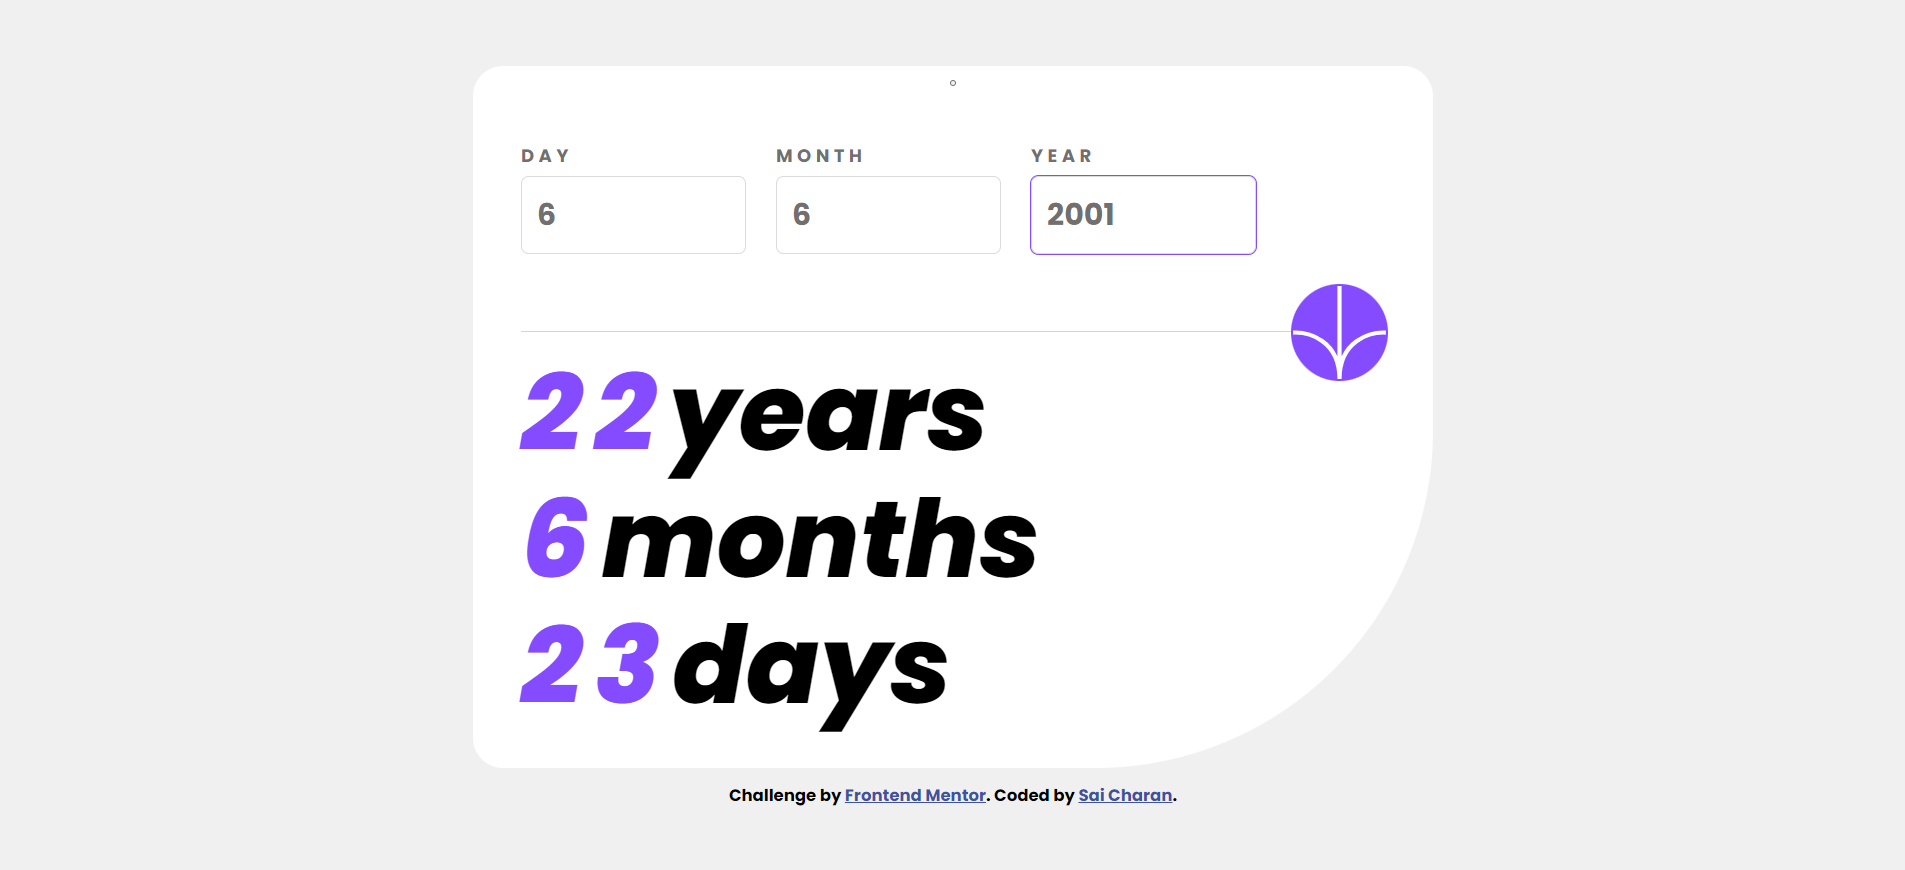
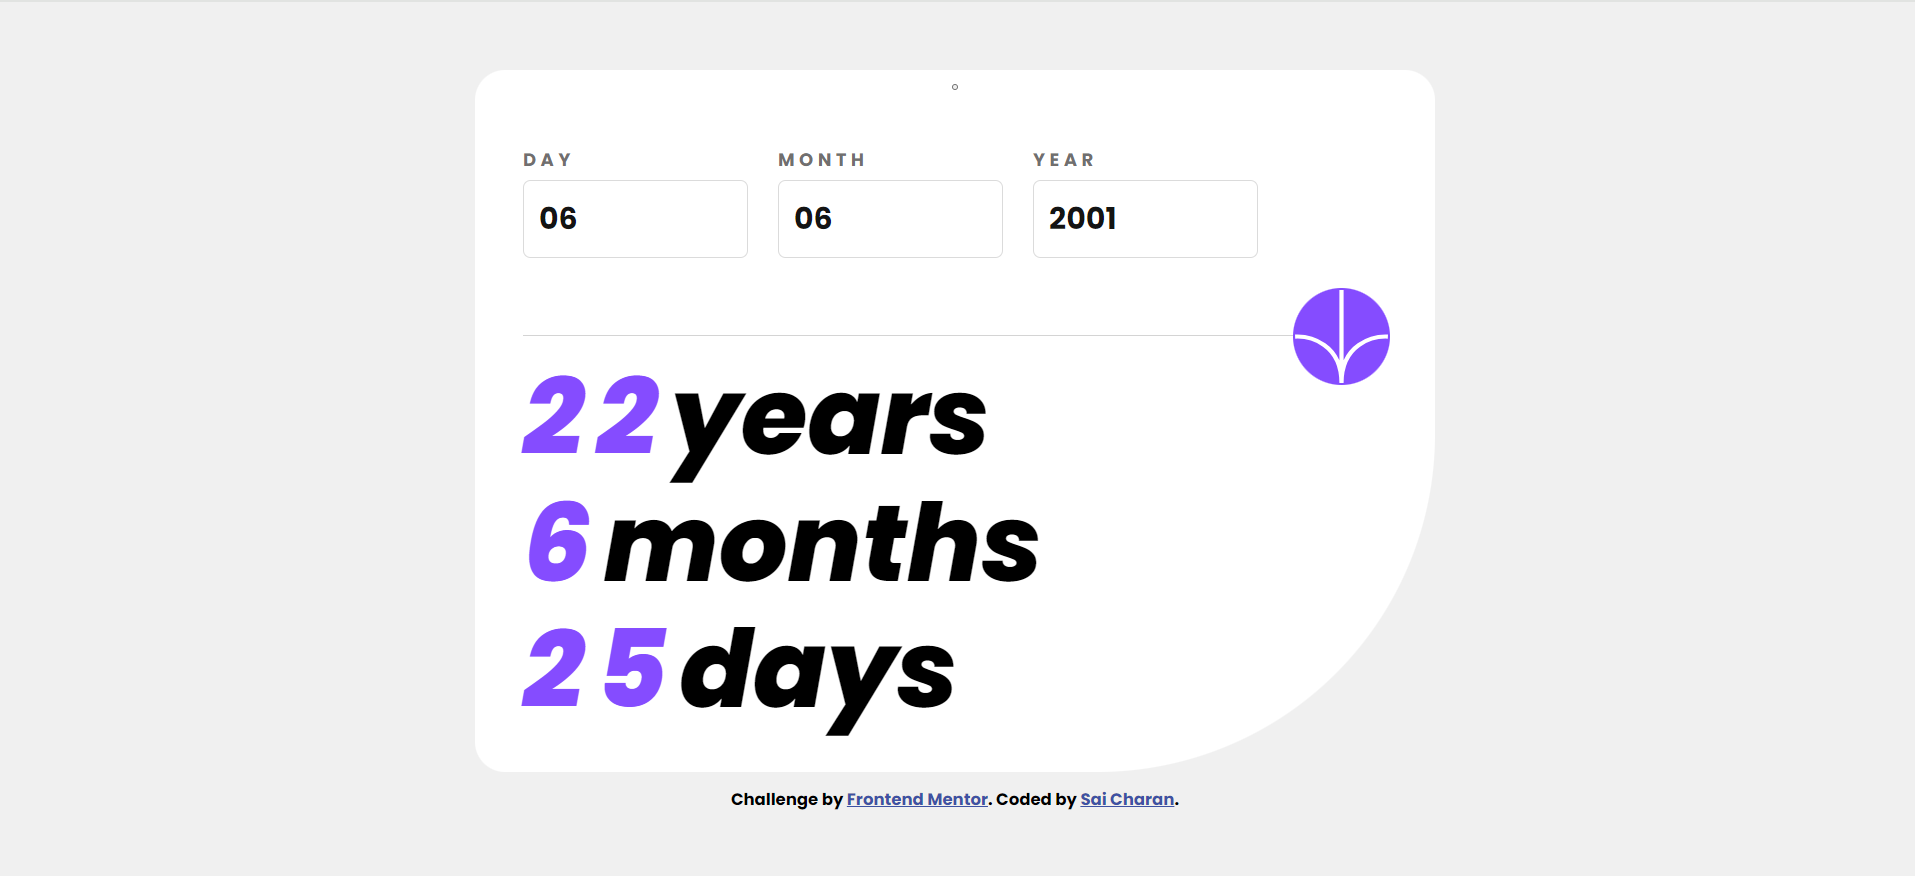
'changesDone'

diff --git a/age-calculator-app-main/index.html b/age-calculator-app-main/index.html
@@ -3,7 +3,6 @@
   <head>
     <meta charset="UTF-8" />
     <meta name="viewport" content="width=device-width, initial-scale=1.0" />
-    <!-- displays site properly based on user's device -->
 
     <link
       rel="icon"
@@ -13,8 +12,6 @@
     />
 
     <title>Frontend Mentor | Age calculator app</title>
-
-    <!-- Feel free to remove these styles or customise in your own stylesheet 👍 -->
     <link rel="stylesheet" href="style.css" />
   </head>
   <body>
@@ -43,11 +40,11 @@
         </div>
         <div class="box">
           <h2 class="months boxValue">-</h2>
-          <h2 class=" boxText">months</h2>
+          <h2 class="boxText">months</h2>
         </div>
         <div class="box">
           <h2 class="days boxValue">-</h2>
-          <h2 class=" boxText">days</h2>
+          <h2 class="boxText">days</h2>
         </div>
       </section>
     </section>

diff --git a/age-calculator-app-main/style.css b/age-calculator-app-main/style.css
@@ -68,7 +68,7 @@ input {
   border-radius: 5px;
   padding: 10px;
   border: 1px solid hsl(0, 0%, 86%);
-  color: hsl(0, 1%, 44%);
+  color: hsl(0, 0%, 8%);
   font-size: 20px;
   text-transform: uppercase;
 }

diff --git a/age-calculator-app-main/README.md b/age-calculator-app-main/README.md
@@ -1,102 +1,132 @@
-# Frontend Mentor - Age calculator app
+# Frontend Mentor - Age calculator app solution
 
-![Design preview for the Age calculator app coding challenge](./design/desktop-preview.jpg)
+This is a solution to the [Age calculator app challenge on Frontend Mentor](https://www.frontendmentor.io/challenges/age-calculator-app-dF9DFFpj-Q). Frontend Mentor challenges help you improve your coding skills by building realistic projects. 
 
-## Welcome! 👋
+## Table of contents
 
-Thanks for checking out this front-end coding challenge.
+- [Overview](#overview)
+  - [The challenge](#the-challenge)
+  - [Screenshot](#screenshot)
+  - [Links](#links)
+- [My process](#my-process)
+  - [Built with](#built-with)
+  - [What I learned](#what-i-learned)
+  - [Continued development](#continued-development)
+  - [Useful resources](#useful-resources)
+- [Author](#author)
+- [Acknowledgments](#acknowledgments)
 
-[Frontend Mentor](https://www.frontendmentor.io) challenges help you improve your coding skills by building realistic projects.
+**Note: Delete this note and update the table of contents based on what sections you keep.**
 
-**To do this challenge, you need a decent understanding of HTML, CSS and JavaScript.**
+## Overview
 
-## The challenge
+### The challenge
 
-Your challenge is to build out this age calculator app and get it looking as close to the design as possible.
-
-You can use any tools you like to help you complete the challenge. So if you've got something you'd like to practice, feel free to give it a go.
-
-Your users should be able to: 
+Users should be able to:
 
 - View an age in years, months, and days after submitting a valid date through the form
 - Receive validation errors if:
   - Any field is empty when the form is submitted
   - The day number is not between 1-31
   - The month number is not between 1-12
-  - The date is in the future
+  - The year is in the future
   - The date is invalid e.g. 31/04/1991 (there are 30 days in April)
 - View the optimal layout for the interface depending on their device's screen size
 - See hover and focus states for all interactive elements on the page
 - **Bonus**: See the age numbers animate to their final number when the form is submitted
 
-Want some support on the challenge? [Join our Slack community](https://www.frontendmentor.io/slack) and ask questions in the **#help** channel.
+### Screenshot
 
-## Where to find everything
+![Output image](image.png)
 
-Your task is to build out the project to the designs inside the `/design` folder. You will find both a mobile and a desktop version of the design. 
+### Links
 
-The designs are in JPG static format. Using JPGs will mean that you'll need to use your best judgment for styles such as `font-size`, `padding` and `margin`. 
+- Solution URL: [Git hub](https://github.com/saicharan293/FrontendMentorIO/tree/main/profile-card-component-main)
+- Live Site URL: [Netlify](https://your-live-site-url.com)
 
-If you would like the design files (we provide Sketch & Figma versions) to inspect the design in more detail, you can [subscribe as a PRO member](https://www.frontendmentor.io/pro).
+## My process
 
-All the required assets for this project are in the `/assets` folder. The images are already exported for the correct screen size and optimized.
+### Built with
 
-We also include variable and static font files for the required fonts for this project. You can choose to either link to Google Fonts or use the local font files to host the fonts yourself. Note that we've removed the static font files for the font weights that aren't needed for this project.
+- Semantic HTML5 markup
+- CSS custom properties
+- Flexbox
+- CSS Grid
+- Java Script
 
-There is also a `style-guide.md` file containing the information you'll need, such as color palette and fonts.
+### What I learned
 
-## Building your project
+I learnt how to use pseudo elements such as focus for input tag in css, and other major learning lies in writing the java script code to validate the day if the month isn't entered yet and user tries to submit only the day element input. I took a lot of time to process the next step as I go into writing the code, and usage of Date() function helped me to understand better about its usage rather than going for a static method to count the maximum days of any month entered by user
 
-Feel free to use any workflow that you feel comfortable with. Below is a suggested process, but do not feel like you need to follow these steps:
+These are the code snippets:
 
-1. Initialize your project as a public repository on [GitHub](https://github.com/). Creating a repo will make it easier to share your code with the community if you need help. If you're not sure how to do this, [have a read-through of this Try Git resource](https://try.github.io/).
-2. Configure your repository to publish your code to a web address. This will also be useful if you need some help during a challenge as you can share the URL for your project with your repo URL. There are a number of ways to do this, and we provide some recommendations below.
-3. Look through the designs to start planning out how you'll tackle the project. This step is crucial to help you think ahead for CSS classes to create reusable styles.
-4. Before adding any styles, structure your content with HTML. Writing your HTML first can help focus your attention on creating well-structured content.
-5. Write out the base styles for your project, including general content styles, such as `font-family` and `font-size`.
-6. Start adding styles to the top of the page and work down. Only move on to the next section once you're happy you've completed the area you're working on.
 
-## Deploying your project
+```css
+input {
+  width: 150px;
+  border-radius: 5px;
+  padding: 10px;
+  border: 1px solid hsl(0, 0%, 86%);
+  color: hsl(0, 0%, 8%);
+  font-size: 20px;
+  text-transform: uppercase;
+}
+input:focus{
+    outline: 1px solid hsl(259, 100%, 65%);
+}
+.error{
+  color: hsl(0, 100%, 67%);
+  font-size: 12px;
+  font-style: italic;
+  padding-top: 5px;
+}
+```
+```js
+function validation() {
+  let monthEntered = false;
+  const inputArray = Array.from(inputFields);
+  inputArray.forEach((input, index) => {
+    const inputValue = parseInt(input.value, 10);
+    clearError(index);
+    // check if the input field is empty or not a number 
+    if (isNaN(inputValue) || input.value.trim() === "") {
+      displayError(index, "This field is required");
+      return false;
+    } else {
+      // Validate day, month, and year based on their respective indices
+      if (index === 0) {
+        monthEntered = true;
+        return validateDay(inputValue, index, monthEntered);
+      } else if (index === 1) {
+        return validateMonth(inputValue, index);
+      } else if (index === 2) {
+        return validateYear(inputValue, index);
+      }
+    }
+  });
+  return true;
+}
+```
 
-As mentioned above, there are many ways to host your project for free. Our recommend hosts are:
 
-- [GitHub Pages](https://pages.github.com/)
-- [Vercel](https://vercel.com/)
-- [Netlify](https://www.netlify.com/)
+If you want more help with writing markdown, we'd recommend checking out [The Markdown Guide](https://www.markdownguide.org/) to learn more.
 
-You can host your site using one of these solutions or any of our other trusted providers. [Read more about our recommended and trusted hosts](https://medium.com/frontend-mentor/frontend-mentor-trusted-hosting-providers-bf000dfebe).
 
-## Create a custom `README.md`
+### Continued development
 
-We strongly recommend overwriting this `README.md` with a custom one. We've provided a template inside the [`README-template.md`](./README-template.md) file in this starter code.
+Use this section to outline areas that you want to continue focusing on in future projects. These could be concepts you're still not completely comfortable with or techniques you found useful that you want to refine and perfect.
+I want to learn more about Date function and its behavior when used in other functions to retrieve information about time or time elements(date, year, month etc). And also the validation process need to be improved.
 
-The template provides a guide for what to add. A custom `README` will help you explain your project and reflect on your learnings. Please feel free to edit our template as much as you like.
 
-Once you've added your information to the template, delete this file and rename the `README-template.md` file to `README.md`. That will make it show up as your repository's README file.
 
-## Submitting your solution
+### Useful resources
 
-Submit your solution on the platform for the rest of the community to see. Follow our ["Complete guide to submitting solutions"](https://medium.com/frontend-mentor/a-complete-guide-to-submitting-solutions-on-frontend-mentor-ac6384162248) for tips on how to do this.
+- [Git hub](https://www.w3schools.com/jsref/event_onkeydown.asp) - This helped me for understanding the way that as I press "Enter" key on key board, it will submit the details. Even though this process isn't stated in the requirements list, I was curious how this works parellel to mouse click for submit
 
-Remember, if you're looking for feedback on your solution, be sure to ask questions when submitting it. The more specific and detailed you are with your questions, the higher the chance you'll get valuable feedback from the community.
+## Author
 
-## Sharing your solution
+- Website - [Sai Charan Amudala](https://fmioagecalculator.netlify.app/)
+- Frontend Mentor - [@saicharan293](https://www.frontendmentor.io/profile/saicharan293)
 
-There are multiple places you can share your solution:
 
-1. Share your solution page in the **#finished-projects** channel of the [Slack community](https://www.frontendmentor.io/slack). 
-2. Tweet [@frontendmentor](https://twitter.com/frontendmentor) and mention **@frontendmentor**, including the repo and live URLs in the tweet. We'd love to take a look at what you've built and help share it around.
-3. Share your solution on other social channels like LinkedIn.
-4. Blog about your experience building your project. Writing about your workflow, technical choices, and talking through your code is a brilliant way to reinforce what you've learned. Great platforms to write on are [dev.to](https://dev.to/), [Hashnode](https://hashnode.com/), and [CodeNewbie](https://community.codenewbie.org/).
 
-We provide templates to help you share your solution once you've submitted it on the platform. Please do edit them and include specific questions when you're looking for feedback. 
-
-The more specific you are with your questions the more likely it is that another member of the community will give you feedback.
-
-## Got feedback for us?
-
-We love receiving feedback! We're always looking to improve our challenges and our platform. So if you have anything you'd like to mention, please email hi[at]frontendmentor[dot]io.
-
-This challenge is completely free. Please share it with anyone who will find it useful for practice.
-
-**Have fun building!** 🚀

diff --git a/profile-card-component-main/README.md b/profile-card-component-main/README.md
@@ -25,12 +25,11 @@ Very good sample to practice HTML in accordance to CSS.
 
 ### Screenshot
 
-![](./screenshot.jpg)
 ![Screen shot](image.png)
-
 ### Links
 
 - Solution URL: [Git hub](https://github.com/saicharan293/FrontendMentorIO/tree/main)
+- Live Site URL: [Netlify] (https://fmioprofilecard.netlify.app/)
 ## My process
 - I considered the background as main section
 - Main section contain a subsection with id center and is placed at the center of page using display=flex in css
